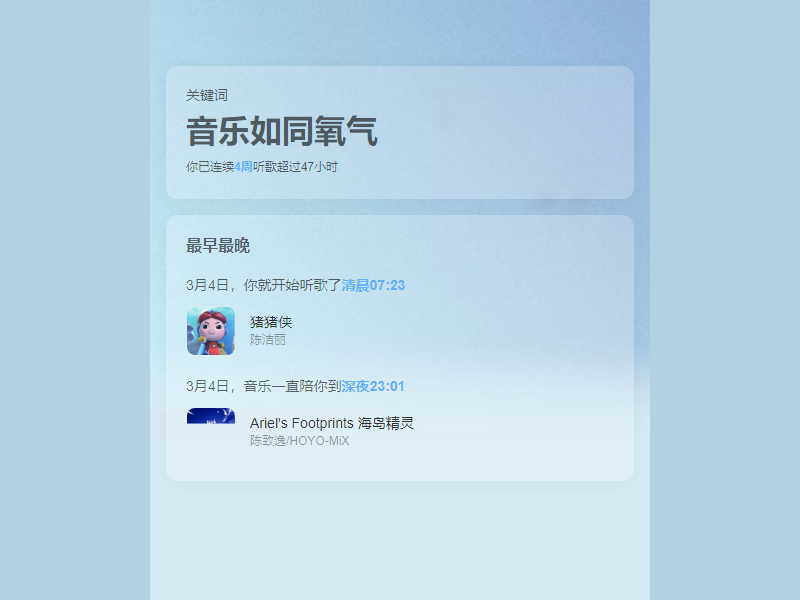
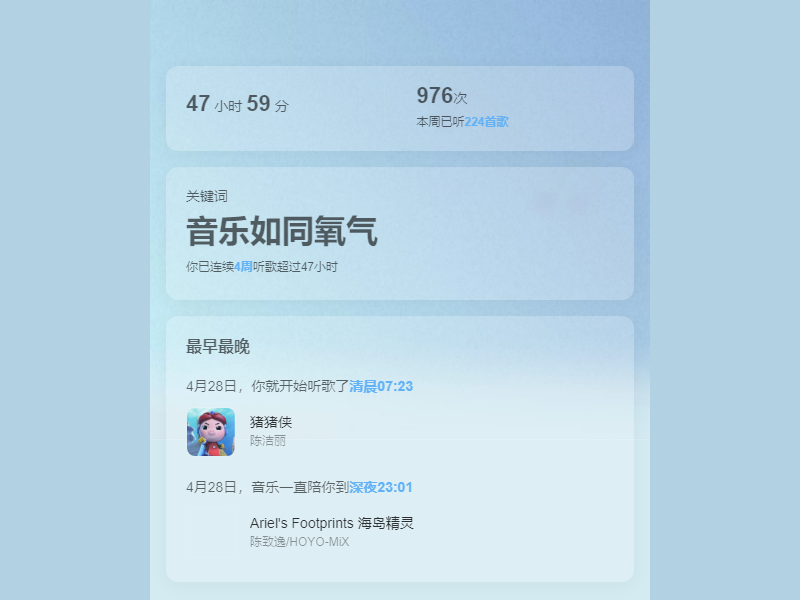
loadListenCount

diff --git a/machine.js b/machine.js
@@ -2,12 +2,11 @@ const puppeteer = require('puppeteer-core');
 const fs = require("fs");
 const analysis = getAnalysis()
 function getAnalysis() {
-    return {}//TODO
-}
+    return{}}
 (async () => {
-
     const browser = await puppeteer.launch({
         "executablePath": "C:\\Program Files (x86)\\Microsoft\\Edge\\Application\\msedge.exe"
+        //,headless:false
     });
     var baseHtml = fs.readFileSync("sources/base.html", "utf-8");
     const page = await browser.newPage();
@@ -35,6 +34,29 @@ function getAnalysis() {
             var div = addElement(document, "div", detail, "f-flvc")
             addElement(document, "p", div, "f-fs14 name s-fc3 f-thide f-cor-f", song.songName)
             addElement(document, "p", detail, "f-fs12 artist s-fc2 f-thide f-cor-g", song.artistNames)
+        }
+        function loadListenCount(document,analysis){
+            var songsc=analysis.data.listenSongs
+            var count=analysis.data.listenWeekCount
+            var time=analysis.data.listenWeekTime/60/60
+            var trunctime=Math.trunc(time)
+            var minutetime=Math.round((time-trunctime)*60)
+            var base=addContainer(document,"his-block")
+            var container=addElement(document,"div",base,"b-container b-cont-bg his-cont")
+            var time=addElement(document,"div",container,"his-item")
+            var timep=addElement(document,"p",time,"t f-cor-c")
+            addElement(document,"span",timep,"f-cor-b",trunctime)
+            timep.append(" 小时 ")
+            addElement(document,"span",timep,"f-cor-b",minutetime)
+            timep.append(" 分")
+            addElement(document,"div",container,"his-gap")
+            var countd=addElement(document,"div",container,"his-item")
+            var countp=addElement(document,"p",countd,"t f-cor-c")
+            addElement(document,"span",countp,"f-cor-b",count)
+            countp.append("次")
+            var counts=addElement(document,"p",countd,"s f-cor-c")
+            counts.append("本周已听")
+            addElement(document,"span",counts,"f-cor-d",songsc+"首歌")
         }
         function loadKeyword(document, analysis) {
             var keyword = analysis.data.keyword
@@ -65,7 +87,7 @@ function getAnalysis() {
                     var time = "清晨"
                 }
                 var detail = addElement(document, "div", li, "f-fs14 type s-fc1 f-cor-b")
-                detail.append(date.getMonth() + "月" + date.getDay() + "日" + text)
+                detail.append(date.getMonth()+1 + "月" + date.getDate() + "日" + text)
                 addElement(document, "span", detail, "f-cor-d", time + fixTime(date.getHours()) + ":" + fixTime(date.getMinutes()))
                 drawSongDetail(document, song, li)
             }
@@ -81,11 +103,15 @@ function getAnalysis() {
             drawLi(ul, endSong, endDate, true)
         }
         function main() {
+            loadListenCount(document,analysis)
             loadKeyword(document, analysis)
             loadStartEnd(document, analysis)
         }
         main()
     }, analysis)
-    await page.screenshot({ path: "D:/Program Source/NeteaseMusicTimeMachine/a.png", fullPage: true })
+    await page.screenshot(
+        { 
+            path: "D:/Program Source/NeteaseMusicTimeMachine/a.png", 
+            fullPage: true })
     await browser.close()
 })();

diff --git a/sources/base.html b/sources/base.html
@@ -3,6 +3,8 @@
 
 <head>
     <meta charset="utf-8" />
+    <meta name="viewport" content="width=device-width,initial-scale=1,maximum-scale=1, user-scalable=no, viewport-fit=cover">
+    <link rel="stylesheet" href="https://s8.music.126.net/5d0337f57b97e074d5f0ace1_5d0337f57b97e074d5f0ace3_0/m-viptimemachine.46da2.css" type="text/css">
     <link rel="stylesheet" href="https://s3.music.126.net/prime-assets/m-viptimemachine-week.b3ef7.css" type="text/css">
 </head>
 
